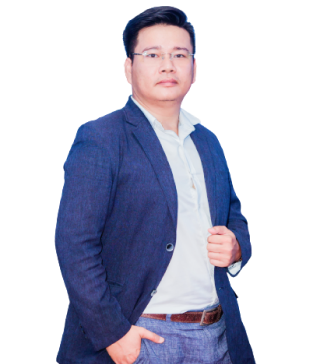
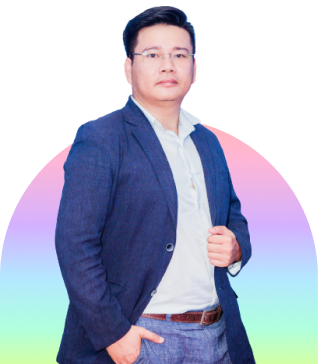
update

Changed region(s): [[0.6226, 0.3324, 1.0, 1.0], [0.0, 0.3929, 0.2264, 1.0]]

diff --git a/assets/styles/main.css b/assets/styles/main.css
@@ -132,10 +132,11 @@ main {
   justify-content: center;
   align-items: center;
   height: 750px;
-  margin-bottom: 60px;
+  margin-bottom: 80px;
   background: url(/assets/images/banner-bg.png);
   background-repeat: no-repeat;
-  background-size: cover;
+  background-size: contain;
+  background-position: center;
 }
 
 .banner-content {
@@ -198,11 +199,17 @@ main {
   margin-right: 10px;
 }
 
-.watch-btn {
+.about {
+  margin-bottom: 100px;
 }
 
-.about {
-  margin-bottom: 80px;
+.about-img {
+  width: 30%;
+  object-fit: contain;
+}
+
+.about > div {
+  width: 62%;
 }
 
 .about-content {
@@ -234,6 +241,7 @@ main {
     linear-gradient(to right, rgb(238, 169, 255, 0.05), rgb(238, 169, 255, 1))
       border-box;
   border: 4px solid transparent;
+  overflow: hidden;
 }
 
 .pick-sub {
@@ -275,6 +283,10 @@ main {
 
 .pick-img {
   width: 25%;
+}
+
+.target {
+  margin-bottom: 40px;
 }
 
 .vision,
@@ -326,13 +338,13 @@ main {
 
 .value-heading {
   display: inline-block;
-  margin-bottom: 5px;
+  margin-bottom: 10px;
   font-size: 48px;
   font-weight: 1000;
 }
 
 .value-sub {
-  margin-bottom: 20px;
+  margin-bottom: 30px;
 }
 
 .value-list {
@@ -343,8 +355,7 @@ main {
 
 .value-list > div {
   padding: 20px;
-  /* background: rgba(0, 0, 0, 0.3); */
-  background: #d3d3d3;
+  background: rgba(0, 0, 0, 0.3);
   border-radius: 15px;
   text-align: center;
 }
@@ -365,19 +376,28 @@ main {
 
 .time-line {
   padding-left: 12.5%;
+  margin-bottom: 80px;
 }
 
 .time-line p {
   display: inline-block;
-  margin-bottom: 30px;
+  margin-bottom: 40px;
   font-size: 48px;
   font-weight: 1000;
+}
+
+.time-line img {
+  width: 100%;
 }
 
 .problems-title {
   color: #ff5f5f;
   font-size: 48px;
   font-weight: 1000;
+}
+
+.problems {
+  margin-bottom: 80px;
 }
 
 .problem-list > div {
@@ -434,6 +454,8 @@ main {
 .location {
   display: flex;
   justify-content: space-between;
+  align-items: center;
+  margin-bottom: 100px;
 }
 
 .location-content {
@@ -442,12 +464,17 @@ main {
 
 .location-heading {
   display: inline-block;
+  margin-bottom: 20px;
   font-size: 48px;
   font-weight: 1000;
 }
 
+.location-content ul li {
+  margin-bottom: 20px;
+}
+
 iframe {
-  width: 57%;
+  width: 55%;
   aspect-ratio: 16 / 9;
   border-radius: 24px;
 }
@@ -457,6 +484,7 @@ iframe {
   justify-content: space-between;
   align-items: center;
   padding: 40px;
+  margin-bottom: 80px;
   background: linear-gradient(#0c0612, #0c0612) padding-box,
     linear-gradient(to right, rgb(238, 169, 255, 0.05), rgb(238, 169, 255, 1))
       border-box;

diff --git a/index.html b/index.html
@@ -68,7 +68,7 @@
         class="hidden w-[50%] h-[100vh] py-5 fixed top-0 right-0 bg-[#33323F] text-[#eee] z-[99]"
       >
         <div class="px-3 mb-5 flex justify-between items-center">
-          <img src="/assets/images/logo.png" alt="" /><i
+          <img src="/assets/images/logo.png" alt="" class="mobile-logo" /><i
             id="close-btn"
             class="fa-solid fa-xmark p-1 text-[24px]"
             onclick="handleCloseBtn()"
@@ -147,11 +147,11 @@
             <img
               src="/assets/images/about-img.png"
               alt=""
-              class="about-img w-[37%] hiddenLeft"
+              class="about-img  hiddenLeft"
             />
-            <div class="w-[60%] mt-[10%]">
+            <div class="">
               <p class="about-content text-[18px] text-justify hiddenRight">
-                ID-Connect là giải pháp bổ sung, thay thế các sản phẩm truyền
+                <b>ID-Connect</b> là giải pháp bổ sung, thay thế các sản phẩm truyền
                 thống thành sản phẩm công nghệ dựa trên nền tảng điện toán đám
                 mây - Cloud ERP nhằm tối ưu khả năng chia sẻ và kết nối. Thành
                 lập năm 2023 bởi Founder Tony cùng các chuyên gia trong lĩnh vực
@@ -167,7 +167,7 @@
                 nổ kỹ thuật số như hiện nay.
               </p>
               <p
-                class="about-founder text-[#4CAF4F] font-bold text-[20px] hiddenRight"
+                class="about-founder text-[#4CAF4F] font-[800] text-[20px] hiddenRight"
               >
                 Tony Doan
               </p>
@@ -490,7 +490,7 @@
                 Hiện chúng tôi đang tìm kiếm các nhân sự cấp cao và nhà đầu tư
               </p>
               <p class="hiring-sub gradient-text">
-                Chính sách rõ ràng, lộ trình chi tiết, báo cáo tài chính đầy dủ
+                Chính sách rõ ràng, lộ trình chi tiết, báo cáo tài chính đầy đủ
               </p>
             </div>
             <button class="hiring-btn">Contact US</button>

diff --git a/assets/styles/responsive.css b/assets/styles/responsive.css
@@ -769,54 +769,41 @@
 }
 
 @media (max-width: 639px) {
-  header {
-    height: 69px !important;
-    padding: 0 6% !important;
+  .container {
+    width: 84% !important;
   }
-  header > div:first-child {
+  header>div>div:first-child {
+    justify-content: space-between;
     width: 100%;
-  }
-  .logo {
-    width: 40px !important;
-  }
-  .search-input {
-    height: 90%;
-    margin: 0 15px 0 0;
   }
   .header-menu {
     display: none !important;
   }
   .mobile-btn {
     display: block !important;
-    font-size: 30px;
+    font-size: 40px;
     background: linear-gradient(to right, #6ddcff 0%, #7f60f9 100%);
     -webkit-background-clip: text;
     -webkit-text-fill-color: transparent;
   }
-  #mobile-menu > div > img {
-    width: 70%;
+  .mobile-logo {
+    width: 30%;
   }
   .banner {
-    padding-top: 70px;
-    background: #1a1b2d;
+    height: 600px;
+  }
+  .banner-sub {
+    font-size: 24px;
   }
   .banner-title {
-    top: 35% !important;
-    width: 55% !important;
-    font-size: 18px !important;
-    line-height: 24px !important;
+    font-size: 30px;
   }
-  .banner button {
-    width: 110px !important;
-    height: auto !important;
-    padding: 5px 10px !important;
+  .banner-btn {
+    width: 100%;
   }
-  .banner button img {
-    width: 10px !important;
-  }
-  .banner button span {
-    padding-left: 5px !important;
-    font-size: 13px;
+  .banner-btn a button {
+    padding: 8px 15px;
+    font-size: 16px;
   }
   .about {
     flex-direction: column-reverse;
